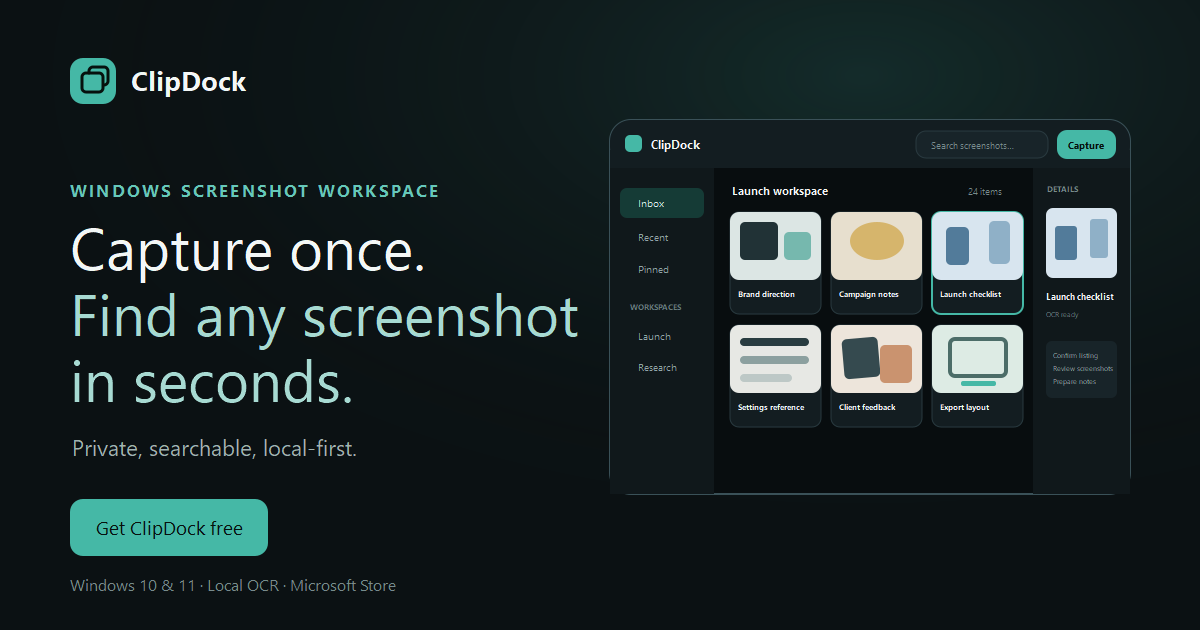
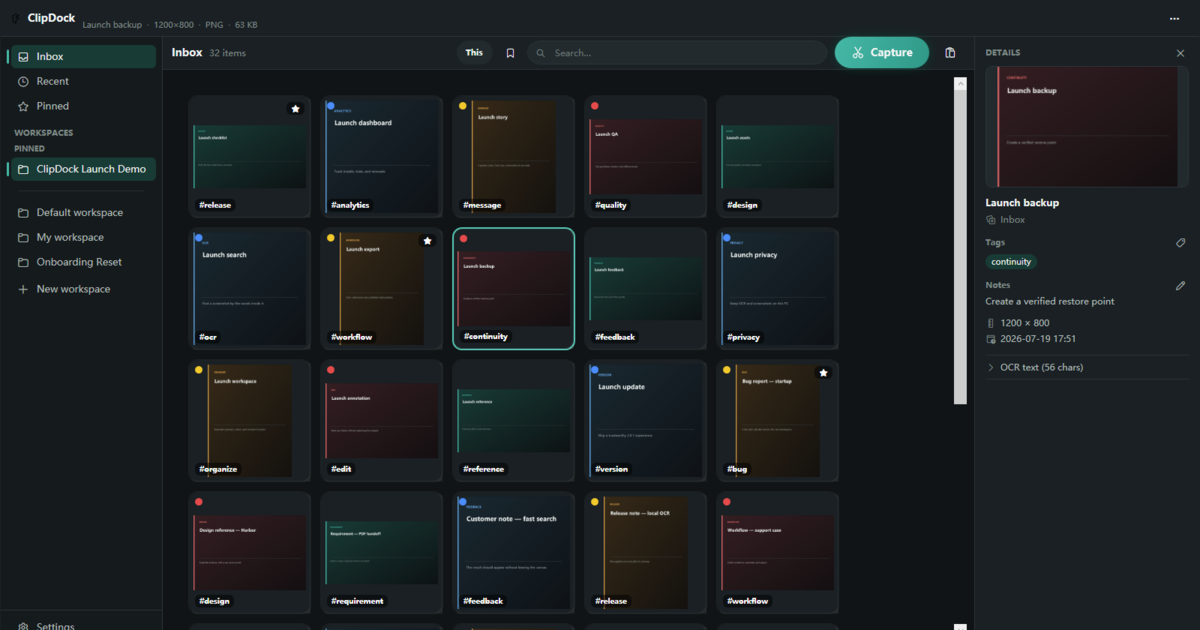
Replace homepage mockups with real ClipDock UI

diff --git a/index.html b/index.html
@@ -12,6 +12,7 @@
   <link rel="icon" href="/favicon-32.png" sizes="32x32" type="image/png" />
   <link rel="apple-touch-icon" href="/apple-touch-icon.png" />
   <link rel="manifest" href="/site.webmanifest" />
+  <link rel="preload" as="image" href="/assets/product/clipdock-workspace-2.0.1.png" type="image/png" fetchpriority="high" />
   <meta property="og:type" content="website" />
   <meta property="og:site_name" content="ClipDock" />
   <meta property="og:locale" content="en_US" />
@@ -21,11 +22,12 @@
   <meta property="og:image" content="https://getclipdock.com/assets/og/clipdock-og.png" />
   <meta property="og:image:width" content="1200" />
   <meta property="og:image:height" content="630" />
-  <meta property="og:image:alt" content="ClipDock searchable screenshot workspace for Windows" />
+  <meta property="og:image:alt" content="ClipDock 2.0.1 workspace on Windows with tagged screenshot cards and the Details inspector open" />
   <meta name="twitter:card" content="summary_large_image" />
   <meta name="twitter:title" content="ClipDock — Searchable Screenshot Organizer for Windows" />
   <meta name="twitter:description" content="Capture quietly, find screenshot text locally, and keep visual work organized on Windows." />
   <meta name="twitter:image" content="https://getclipdock.com/assets/og/clipdock-og.png" />
+  <meta name="twitter:image:alt" content="ClipDock 2.0.1 workspace on Windows with tagged screenshot cards and the Details inspector open" />
   <title>ClipDock — Searchable Screenshot Organizer for Windows</title>
   <style>
     :root{
@@ -140,55 +142,13 @@
     .trustCheck{display:grid;place-items:center;width:17px;height:17px;border-radius:50%;background:var(--brand-soft);color:var(--brand);font-size:11px;font-weight:900}
 
     .heroVisual{min-width:0}
-    .appWindow{
-      overflow:hidden;border:1px solid var(--border-strong);border-radius:20px;
+    .productFrame{
+      overflow:hidden;margin:0;border:1px solid var(--border-strong);border-radius:20px;
       background:var(--bg-deep);box-shadow:var(--shadow),0 0 0 8px rgba(255,255,255,.018);
       transform:perspective(1400px) rotateY(-1.4deg) rotateX(.7deg);
     }
-    .appTopbar{
-      height:47px;display:flex;align-items:center;gap:10px;padding:0 13px;
-      border-bottom:1px solid var(--border);background:#121a1e;font-size:10px;color:var(--muted);
-    }
-    .mockBrand{display:flex;align-items:center;gap:7px;color:var(--text);font-size:11px;font-weight:800}
-    .mockBrandGlyph{width:16px;height:16px;border-radius:5px;background:var(--brand)}
-    .mockTopMeta{color:var(--muted-2)}
-    .mockSearch{
-      display:flex;align-items:center;gap:7px;width:178px;height:28px;margin-left:auto;padding:0 10px;
-      border:1px solid var(--border);border-radius:10px;background:var(--surface);color:var(--muted-2);
-    }
-    .mockCapture{display:grid;place-items:center;height:29px;padding:0 14px;border-radius:10px;background:var(--brand);color:var(--on-brand);font-weight:850}
-    .windowDots{display:flex;gap:5px;margin-left:3px}.windowDots i{width:5px;height:5px;border-radius:50%;background:#617478}
-    .appBody{display:grid;grid-template-columns:118px minmax(0,1fr) 154px;min-height:372px}
-    .mockSidebar{padding:15px 9px;border-right:1px solid var(--border);background:#10181b}
-    .sideItem{display:flex;align-items:center;gap:7px;margin-bottom:5px;padding:7px 8px;border-radius:7px;color:#91a5a6;font-size:9px}
-    .sideItem::before{content:"";width:8px;height:8px;border:1px solid #718689;border-radius:2px}
-    .sideItem.active{background:var(--brand-soft);color:#d8f2ed}.sideItem.active::before{border-color:var(--brand)}
-    .sideLabel{margin:14px 8px 6px;color:#667b7d;font-size:7px;font-weight:850;letter-spacing:.12em}
-    .mockCanvas{min-width:0;padding:13px 12px;background:#0b1113}
-    .mockCanvasHead{display:flex;align-items:center;justify-content:space-between;margin-bottom:11px;font-size:9px;color:var(--muted)}
-    .mockCanvasHead strong{color:var(--text);font-size:10px}.mockCount{color:var(--muted-2)}
-    .mockGrid{display:grid;grid-template-columns:repeat(3,minmax(0,1fr));gap:9px}
-    .shotCard{overflow:hidden;border:1px solid #24343a;border-radius:9px;background:#131d21;box-shadow:0 7px 18px rgba(0,0,0,.14)}
-    .shotCard.selected{border-color:var(--brand);box-shadow:0 0 0 2px rgba(69,184,166,.15)}
-    .shotThumb{position:relative;height:73px;overflow:hidden;background:#dce6e4}
-    .shotThumb::before,.shotThumb::after{content:"";position:absolute;border-radius:5px}
-    .thumbOne::before{width:46%;height:58%;left:9%;top:12%;background:#213236;box-shadow:42px 9px 0 #76b8ae}
-    .thumbOne::after{width:68%;height:6px;left:10%;bottom:12%;background:#899c9b;box-shadow:0 -11px 0 #becac8}
-    .thumbTwo{background:#e7dfce}.thumbTwo::before{width:56%;height:48%;left:22%;top:15%;background:#d6b56c;border-radius:50%}.thumbTwo::after{width:72%;height:7px;left:14%;bottom:15%;background:#827b6c;box-shadow:0 -12px 0 #b5aa95}
-    .thumbThree{background:#d8e5ef}.thumbThree::before{width:28%;height:50%;left:15%;bottom:18%;background:#527b9a;box-shadow:50px -7px 0 #8fb0c7}.thumbThree::after{width:55%;height:8px;left:23%;bottom:10%;background:#8399a8}
-    .thumbFour{background:#e7e8e4}.thumbFour::before{width:78%;height:10px;left:11%;top:18%;background:#293c40;box-shadow:0 17px 0 #8ca09f,0 34px 0 #bdc8c6}.thumbFour::after{width:18px;height:18px;right:14%;top:13%;background:var(--brand)}
-    .thumbFive{background:#ede5db}.thumbFive::before{width:43%;height:55%;left:12%;top:14%;background:#354a4f;transform:rotate(-5deg);box-shadow:43px 11px 0 #ca936f}.thumbFive::after{width:66%;height:6px;left:17%;bottom:10%;background:#948a7c}
-    .thumbSix{background:#ddebe4}.thumbSix::before{width:67%;height:44%;left:16%;top:18%;border:3px solid #4c6d68;background:transparent}.thumbSix::after{width:45%;height:7px;left:27%;bottom:15%;background:var(--brand)}
-    .ocrPill{position:absolute;right:5px;top:5px;padding:2px 4px;border-radius:4px;background:rgba(6,17,14,.78);color:#7bd8ca;font-size:6px;font-weight:850}
-    .shotMeta{padding:6px 7px 7px}.shotTitle{overflow:hidden;color:#dfe9e7;font-size:7.5px;font-weight:700;text-overflow:ellipsis;white-space:nowrap}.shotDate{margin-top:2px;color:#687d7f;font-size:6.5px}
-    .mockInspector{padding:12px 10px;border-left:1px solid var(--border);background:#10181b}
-    .inspectorLabel{color:#75898b;font-size:7px;font-weight:850;letter-spacing:.12em}
-    .inspectorPreview{height:92px;margin-top:8px;border:1px solid #31444a;border-radius:8px;background:#d8e5ef;position:relative;overflow:hidden}
-    .inspectorPreview::before{content:"";position:absolute;width:33%;height:54%;left:12%;bottom:16%;background:#527b9a;box-shadow:58px -10px 0 #8fb0c7}
-    .inspectorTitle{margin-top:10px;color:#eef5f3;font-size:9px;font-weight:800}
-    .inspectorMeta{margin-top:5px;color:#779092;font-size:7px}
-    .inspectorRule{height:1px;margin:10px 0;background:#26383e}
-    .inspectorText{padding:7px;border-radius:6px;background:#172328;color:#a9b8b7;font-size:7px;line-height:1.45}
+    .productShot{display:block;width:100%}
+    .productShot{height:auto;aspect-ratio:16/9;object-fit:cover;background:var(--bg-deep)}
     .visualCaption{display:flex;align-items:center;justify-content:space-between;gap:16px;margin-top:16px;color:var(--muted-2);font-size:12px}
     .visualCaption strong{color:var(--muted);font-weight:750}
     .captionPulse{display:inline-block;width:7px;height:7px;margin-right:7px;border-radius:50%;background:var(--brand)}
@@ -209,6 +169,16 @@
     .outcomeCard h3{margin:22px 0 10px;font-size:20px;letter-spacing:-.025em}
     .outcomeCard p{margin:0;color:var(--muted);font-size:15px}
     .outcomeMeta{display:block;margin-top:18px;color:#7bd2c5;font-size:12px;font-weight:800}
+    .featureProof{
+      display:grid;grid-template-columns:minmax(240px,.62fr) minmax(520px,1.38fr);align-items:center;gap:32px;
+      margin-top:24px;padding:24px;border:1px solid var(--border);border-radius:var(--radius-lg);background:var(--surface);
+    }
+    .featureProofCopy small{color:var(--brand);font-size:11px;font-weight:850;letter-spacing:.12em;text-transform:uppercase}
+    .featureProofCopy h3{margin:14px 0 10px;font-size:26px;line-height:1.18;letter-spacing:-.035em}
+    .featureProofCopy p{margin:0;color:var(--muted);font-size:14px}
+    .proofFigure{overflow:hidden;margin:0;border:1px solid var(--border-strong);border-radius:14px;background:var(--bg-deep);box-shadow:0 16px 34px rgba(0,0,0,.2)}
+    .proofFigure img{display:block;width:100%}
+    .proofFigure img{height:auto;aspect-ratio:16/9;object-fit:cover}
 
     .workflowBand{
       display:grid;grid-template-columns:1fr auto 1fr auto 1fr;align-items:center;gap:24px;
@@ -280,6 +250,7 @@
       .heroCopy{max-width:760px}
       .heroVisual{max-width:760px}
       .outcomeGrid{grid-template-columns:1fr 1fr}.outcomeCard:last-child{grid-column:1/-1;min-height:auto}
+      .featureProof{grid-template-columns:1fr}.featureProofCopy{max-width:660px}
     }
     @media (max-width:820px){
       .headerNav a:not(.headerStore){display:none}
@@ -300,11 +271,10 @@
       h1{font-size:clamp(39px,13vw,54px)}
       .heroLead{font-size:17px}.heroActions{align-items:stretch;flex-direction:column}.heroActions .button{width:100%}
       .trustList{align-items:flex-start;flex-direction:column;gap:9px}
-      .appWindow{transform:none;border-radius:15px}.mockTopMeta,.windowDots{display:none}.mockSearch{width:126px}.mockCapture{padding-inline:10px}
-      .appBody{grid-template-columns:88px minmax(0,1fr)}.mockInspector{display:none}.mockSidebar{padding-inline:6px}.sideItem{padding-inline:6px}
-      .mockGrid{grid-template-columns:repeat(2,minmax(0,1fr))}.shotThumb{height:68px}
+      .productFrame{transform:none;border-radius:15px}
       .visualCaption{align-items:flex-start;flex-direction:column;gap:5px}
       .outcomeGrid{grid-template-columns:1fr}.outcomeCard:last-child{grid-column:auto}.outcomeCard{min-height:auto}
+      .featureProof{padding:18px}.featureProofCopy h3{font-size:23px}
       .proPanel{padding:27px 21px}.proPanel h2{font-size:34px}.proPrice strong{font-size:26px}
       .privacyStrip{grid-template-columns:1fr}.privacyFacts{grid-column:auto}.privacyIcon{width:40px;height:40px}
       .priceCard{padding:23px}.priceHead{align-items:flex-start;flex-direction:column}.priceAmount{text-align:left}
@@ -313,7 +283,6 @@
     }
     @media (max-width:420px){
       .brandLockup{font-size:15px}.headerStore{font-size:12px}
-      .appBody{grid-template-columns:1fr}.mockSidebar{display:none}.mockSearch{width:112px}.mockGrid{gap:7px}.mockCanvas{padding:10px 9px}
       .proPanel,.supportPanel{border-radius:18px}
     }
     @media (prefers-reduced-motion:reduce){
@@ -376,48 +345,12 @@
       </div>
 
       <div class="heroVisual">
-        <div class="appWindow" role="img" aria-label="Illustrated preview of the ClipDock workbench showing workspaces, screenshot cards, local OCR search and a details panel">
-          <div class="appTopbar">
-            <span class="mockBrand"><span class="mockBrandGlyph"></span>ClipDock</span>
-            <span class="mockTopMeta">Launch workspace · 24 items</span>
-            <span class="mockSearch">⌕&nbsp;&nbsp;Search screenshots…</span>
-            <span class="mockCapture">Capture</span>
-            <span class="windowDots" aria-hidden="true"><i></i><i></i><i></i></span>
-          </div>
-          <div class="appBody">
-            <aside class="mockSidebar" aria-hidden="true">
-              <div class="sideItem active">Inbox</div>
-              <div class="sideItem">Recent</div>
-              <div class="sideItem">Pinned</div>
-              <div class="sideLabel">WORKSPACES</div>
-              <div class="sideItem">Launch</div>
-              <div class="sideItem">Research</div>
-              <div class="sideItem">Client notes</div>
-            </aside>
-            <div class="mockCanvas" aria-hidden="true">
-              <div class="mockCanvasHead"><strong>Launch workspace</strong><span class="mockCount">24 items</span></div>
-              <div class="mockGrid">
-                <div class="shotCard"><div class="shotThumb thumbOne"><span class="ocrPill">OCR</span></div><div class="shotMeta"><div class="shotTitle">Brand direction</div><div class="shotDate">Today · 10:42</div></div></div>
-                <div class="shotCard"><div class="shotThumb thumbTwo"><span class="ocrPill">OCR</span></div><div class="shotMeta"><div class="shotTitle">Campaign notes</div><div class="shotDate">Today · 09:18</div></div></div>
-                <div class="shotCard selected"><div class="shotThumb thumbThree"><span class="ocrPill">OCR</span></div><div class="shotMeta"><div class="shotTitle">Launch checklist</div><div class="shotDate">Yesterday</div></div></div>
-                <div class="shotCard"><div class="shotThumb thumbFour"></div><div class="shotMeta"><div class="shotTitle">Settings reference</div><div class="shotDate">Jul 16</div></div></div>
-                <div class="shotCard"><div class="shotThumb thumbFive"><span class="ocrPill">OCR</span></div><div class="shotMeta"><div class="shotTitle">Client feedback</div><div class="shotDate">Jul 15</div></div></div>
-                <div class="shotCard"><div class="shotThumb thumbSix"></div><div class="shotMeta"><div class="shotTitle">Export layout</div><div class="shotDate">Jul 14</div></div></div>
-              </div>
-            </div>
-            <aside class="mockInspector" aria-hidden="true">
-              <div class="inspectorLabel">DETAILS</div>
-              <div class="inspectorPreview"></div>
-              <div class="inspectorTitle">Launch checklist</div>
-              <div class="inspectorMeta">Launch workspace · OCR ready</div>
-              <div class="inspectorRule"></div>
-              <div class="inspectorText">Confirm store listing<br/>Review screenshots<br/>Prepare launch notes</div>
-            </aside>
-          </div>
-        </div>
+        <figure class="productFrame">
+          <img class="productShot" src="/assets/product/clipdock-workspace-2.0.1.png" width="1600" height="900" fetchpriority="high" decoding="async" alt="ClipDock 2.0.1 on Windows showing a 32-item launch workspace with tagged screenshot cards and the Details inspector open" />
+        </figure>
         <div class="visualCaption">
-          <span><span class="captionPulse"></span><strong>Local-first workbench</strong> · example content shown</span>
-          <span>Capture → search → reuse</span>
+          <span><span class="captionPulse"></span><strong>Actual ClipDock 2.0.1 interface</strong> · demo workspace</span>
+          <span>Capture → organize → reuse</span>
         </div>
       </div>
     </section>
@@ -447,6 +380,16 @@
           <p>Keep references floating, annotate what matters, and export individual images, contact sheets, step collages or image PDFs.</p>
           <span class="outcomeMeta">Floating references · consistent exports</span>
         </article>
+      </div>
+      <div class="featureProof">
+        <div class="featureProofCopy">
+          <small>Real product view</small>
+          <h3>Search remembered words, not folder paths.</h3>
+          <p>This ClipDock 2.0.1 workspace is filtered by the word “launch.” Matching screenshots stay in the same canvas, with tags and item details still available.</p>
+        </div>
+        <figure class="proofFigure">
+          <img src="/assets/product/clipdock-ocr-search-2.0.1.png" width="1600" height="900" loading="lazy" decoding="async" alt="ClipDock local OCR search for launch showing 14 matching screenshots while keeping the Details inspector open" />
+        </figure>
       </div>
     </section>
 